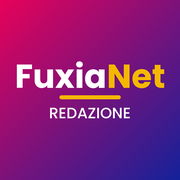
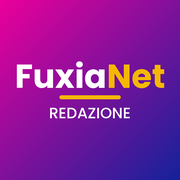
Usa il fucsia ufficiale #ec009c in tutta l'app e nell'icona
Claude-Session: https://claude.ai/code/session_015npsKJWowX9pKs8xnfoPe9

diff --git a/style.css b/style.css
@@ -6,9 +6,9 @@ img{max-width:100%}
 /* Layout: testata in alto, tavolo di lavoro a colonne per stato; articolo = foglio + colonna note a margine */
 /* Identità Fuxia Magazine: testata nera come il logo, fondo fucsia pieno, fogli di lavoro chiari appoggiati sopra */
 :root{
-  --page:#e8025a; --brand-deep:#0a0406; --on-brand:#ffffff; --on-brand-muted:rgba(255,255,255,.88);
-  --s-sheet:#ffffff; --s-ink:#1d0912; --s-muted:#7a4e62; --s-rule:#f3d2e0; --s-hover:#fde3ee; --s-tint:#fff2f7;
-  --s-accent:#d6024f; --s-accent-ink:#ffffff; --s-accent-soft:#ffe0ec;
+  --page:#ec009c; --brand-deep:#0a0406; --on-brand:#ffffff; --on-brand-muted:rgba(255,255,255,.88);
+  --s-sheet:#ffffff; --s-ink:#1d0912; --s-muted:#7a4e62; --s-rule:#f3d2e0; --s-hover:#fde4f4; --s-tint:#fff2f7;
+  --s-accent:#ec009c; --s-accent-ink:#ffffff; --s-accent-soft:#fde0f3;
   --pencil:#c0362c; --pencil-soft:#fbe7e5;
   --s-bozza:#7d6b75; --s-revisione:#2f6fd1; --s-correggere:#d2560e; --s-pronto:#1f8a55; --s-pubblicato:#6a3fd0;
   --shadow:0 1px 2px rgba(60,6,36,.08),0 10px 28px rgba(60,6,36,.18);
@@ -21,29 +21,29 @@ img{max-width:100%}
   --page:#14229a; --brand-deep:#070d3d; --nav-on:#f5b800; --nav-on-ink:#070d3d;
   --s-ink:#0b1033; --s-muted:#525a86; --s-rule:#d8dcf2; --s-hover:#e8ebfb; --s-tint:#f3f5fd;
   --s-accent:#1b30b5; --s-accent-ink:#ffffff; --s-accent-soft:#e2e6ff; --s-revisione:#0f8b8d}
-:root[data-testata="tutte"]{--page-bg:linear-gradient(135deg,#e8025a 0%,#7a1a8c 50%,#14229a 100%)}
+:root[data-testata="tutte"]{--page-bg:linear-gradient(135deg,#ec009c 0%,#80149b 50%,#14229a 100%)}
 @media (prefers-color-scheme:dark){:root:not([data-theme="light"]){
-  --page:#8a0236; --brand-deep:#050203;
+  --page:#ec009c; --brand-deep:#050203;
   --s-sheet:#1c0a12; --s-ink:#fbe9f1; --s-muted:#d39ab4; --s-rule:#46192c; --s-hover:#2f1020; --s-tint:#26101a;
-  --s-accent:#ff3d86; --s-accent-ink:#1a050d; --s-accent-soft:#4a1028;
+  --s-accent:#ec009c; --s-accent-ink:#1a050d; --s-accent-soft:#4a0d36;
   --pencil:#ff7d70; --pencil-soft:#3d1a1d;
   --s-bozza:#d39ab4; --s-revisione:#7fb0ff; --s-correggere:#ff9a5c; --s-pronto:#4fcb8f; --s-pubblicato:#b49bff;
   --shadow:0 1px 2px rgba(0,0,0,.3),0 10px 28px rgba(0,0,0,.4); color-scheme:dark}}
 :root[data-theme="dark"]{
-  --page:#8a0236; --brand-deep:#050203;
+  --page:#ec009c; --brand-deep:#050203;
   --s-sheet:#1c0a12; --s-ink:#fbe9f1; --s-muted:#d39ab4; --s-rule:#46192c; --s-hover:#2f1020; --s-tint:#26101a;
-  --s-accent:#ff3d86; --s-accent-ink:#1a050d; --s-accent-soft:#4a1028;
+  --s-accent:#ec009c; --s-accent-ink:#1a050d; --s-accent-soft:#4a0d36;
   --pencil:#ff7d70; --pencil-soft:#3d1a1d;
   --s-bozza:#d39ab4; --s-revisione:#7fb0ff; --s-correggere:#ff9a5c; --s-pronto:#4fcb8f; --s-pubblicato:#b49bff;
   --shadow:0 1px 2px rgba(0,0,0,.3),0 10px 28px rgba(0,0,0,.4); color-scheme:dark}
 @media (prefers-color-scheme:dark){:root[data-testata="rnv"]:not([data-theme="light"]){
   --page:#0b1462; --brand-deep:#03061f; --s-sheet:#0f1433; --s-ink:#e8ebff; --s-muted:#a3abd6; --s-rule:#252d5e; --s-hover:#1a2050; --s-tint:#12183d;
   --s-accent:#ffc629; --s-accent-ink:#0b1033; --s-accent-soft:#2a2f55; --s-revisione:#4fd1d3}
-  :root[data-testata="tutte"]:not([data-theme="light"]){--page-bg:linear-gradient(135deg,#8a0236,#3d0c5a,#0b1462)}}
+  :root[data-testata="tutte"]:not([data-theme="light"]){--page-bg:linear-gradient(135deg,#ec009c,#80149b,#0b1462)}}
 :root[data-theme="dark"][data-testata="rnv"]{
   --page:#0b1462; --brand-deep:#03061f; --s-sheet:#0f1433; --s-ink:#e8ebff; --s-muted:#a3abd6; --s-rule:#252d5e; --s-hover:#1a2050; --s-tint:#12183d;
   --s-accent:#ffc629; --s-accent-ink:#0b1033; --s-accent-soft:#2a2f55; --s-revisione:#4fd1d3}
-:root[data-theme="dark"][data-testata="tutte"]{--page-bg:linear-gradient(135deg,#8a0236,#3d0c5a,#0b1462)}
+:root[data-theme="dark"][data-testata="tutte"]{--page-bg:linear-gradient(135deg,#ec009c,#80149b,#0b1462)}
 /* Token d'uso: superfici di lavoro per default; sul fondo fucsia (main, testata) diventano chiari */
 :root,.sheet,.panel,.card,.col,.whocard,.rrow,.agenda,.mb-bar,.mb-page,.ph,.empty-state,.modal,.search,.chips button,.drop,.lead-wrap{
   --sheet:var(--s-sheet); --ink:var(--s-ink); --muted:var(--s-muted); --rule:var(--s-rule); --hover:var(--s-hover); --paper:var(--s-tint);
@@ -283,7 +283,7 @@ figcaption .credit{font-family:var(--f-mono);font-size:11px;text-transform:upper
 .tsw{display:flex;border:1px solid var(--rule);border-radius:99px;padding:3px;gap:2px}
 .tsw button{border:0;background:none;color:var(--muted);border-radius:99px;padding:5px 12px;font-family:var(--f-ui);font-weight:700;font-size:12px;letter-spacing:.08em;text-transform:uppercase}
 .tsw button:hover{color:var(--ink)}
-.tsw button[aria-pressed=true].t-fuxia,.tchip.t-fuxia{background:#e8025a;color:#fff}
+.tsw button[aria-pressed=true].t-fuxia,.tchip.t-fuxia{background:#ec009c;color:#fff}
 .tsw button[aria-pressed=true].t-rnv{background:#f5b800;color:#070d3d}
 .tsw button[aria-pressed=true].t-tutte{background:#fff;color:#0a0406}
 .tchip{display:inline-flex;align-self:flex-start;font-family:var(--f-ui);font-weight:700;font-size:10px;letter-spacing:.1em;text-transform:uppercase;padding:3px 7px 2px;border-radius:4px;white-space:nowrap}
@@ -300,7 +300,7 @@ figcaption .credit{font-family:var(--f-mono);font-size:11px;text-transform:upper
 .tpick img{width:100%;max-width:200px;border-radius:8px}
 .tseg{display:flex;gap:4px;flex-wrap:wrap}
 .tseg button{border:1px solid var(--rule);background:none;border-radius:6px;padding:4px 10px;font-family:var(--f-ui);font-weight:700;font-size:12px;letter-spacing:.08em;text-transform:uppercase;color:var(--muted)}
-.tseg button[aria-pressed=true].t-fuxia{background:#e8025a;border-color:#e8025a;color:#fff}
+.tseg button[aria-pressed=true].t-fuxia{background:#ec009c;border-color:#ec009c;color:#fff}
 .tseg button[aria-pressed=true].t-rnv{background:#14229a;border-color:#14229a;color:#f5b800}
 .logo-m{border-radius:6px}
 

diff --git a/app.js b/app.js
@@ -140,7 +140,7 @@ function ago(t){if(!t)return'';const d=(t-Date.now())/1000;const a=Math.abs(d);
   if(a<86400*7)return rtf.format(Math.round(d/86400),'day');return new Date(t).toLocaleDateString('it-IT',{day:'numeric',month:'short',year:'numeric'})}
 const fullDate=t=>t?new Date(t).toLocaleString('it-IT',{day:'numeric',month:'long',year:'numeric',hour:'2-digit',minute:'2-digit'}):'';
 function toast(msg){const t=document.getElementById('toast');t.textContent=msg;t.hidden=false;clearTimeout(toast._t);toast._t=setTimeout(()=>t.hidden=true,3600)}
-const COLORS=['#e8025a','#14229a','#1f8a55','#d2560e','#6a3fd0','#0f8b8d','#b7791f','#c2126f','#2f6fd1','#7d6b75'];
+const COLORS=['#ec009c','#14229a','#1f8a55','#d2560e','#6a3fd0','#0f8b8d','#b7791f','#b8007a','#2f6fd1','#7d6b75'];
 function colorFor(id){let n=0;for(const c of String(id||''))n=(n*31+c.charCodeAt(0))>>>0;return COLORS[n%COLORS.length]}
 function person(id){return S.people[id]||{name:'',color:'var(--muted)'}}
 function pname(id,fallback='Qualcuno'){if(id&&id===S.me.id)return person(id).name||S.me.name||'Tu';return person(id).name||fallback}

diff --git a/sw.js b/sw.js
@@ -1,7 +1,7 @@
 // Service worker: rende l'app installabile e la apre anche con rete debole.
 // Strategia "prima la rete": le modifiche pubblicate arrivano subito; la copia salvata serve solo offline.
 // Dati e foto (Supabase) non passano di qui.
-const CACHE = 'redazione-v12';
+const CACHE = 'redazione-v13';
 const SHELL = ['./', 'index.html', 'style.css', 'app.js', 'config.js', 'manifest.webmanifest',
   'img/fuxia_logo.png', 'img/rnv_logo.png', 'img/fuxia_banner.jpg', 'img/rnv_banner.jpg',
   'icons/icon-192.png', 'icons/icon-512.png'];
